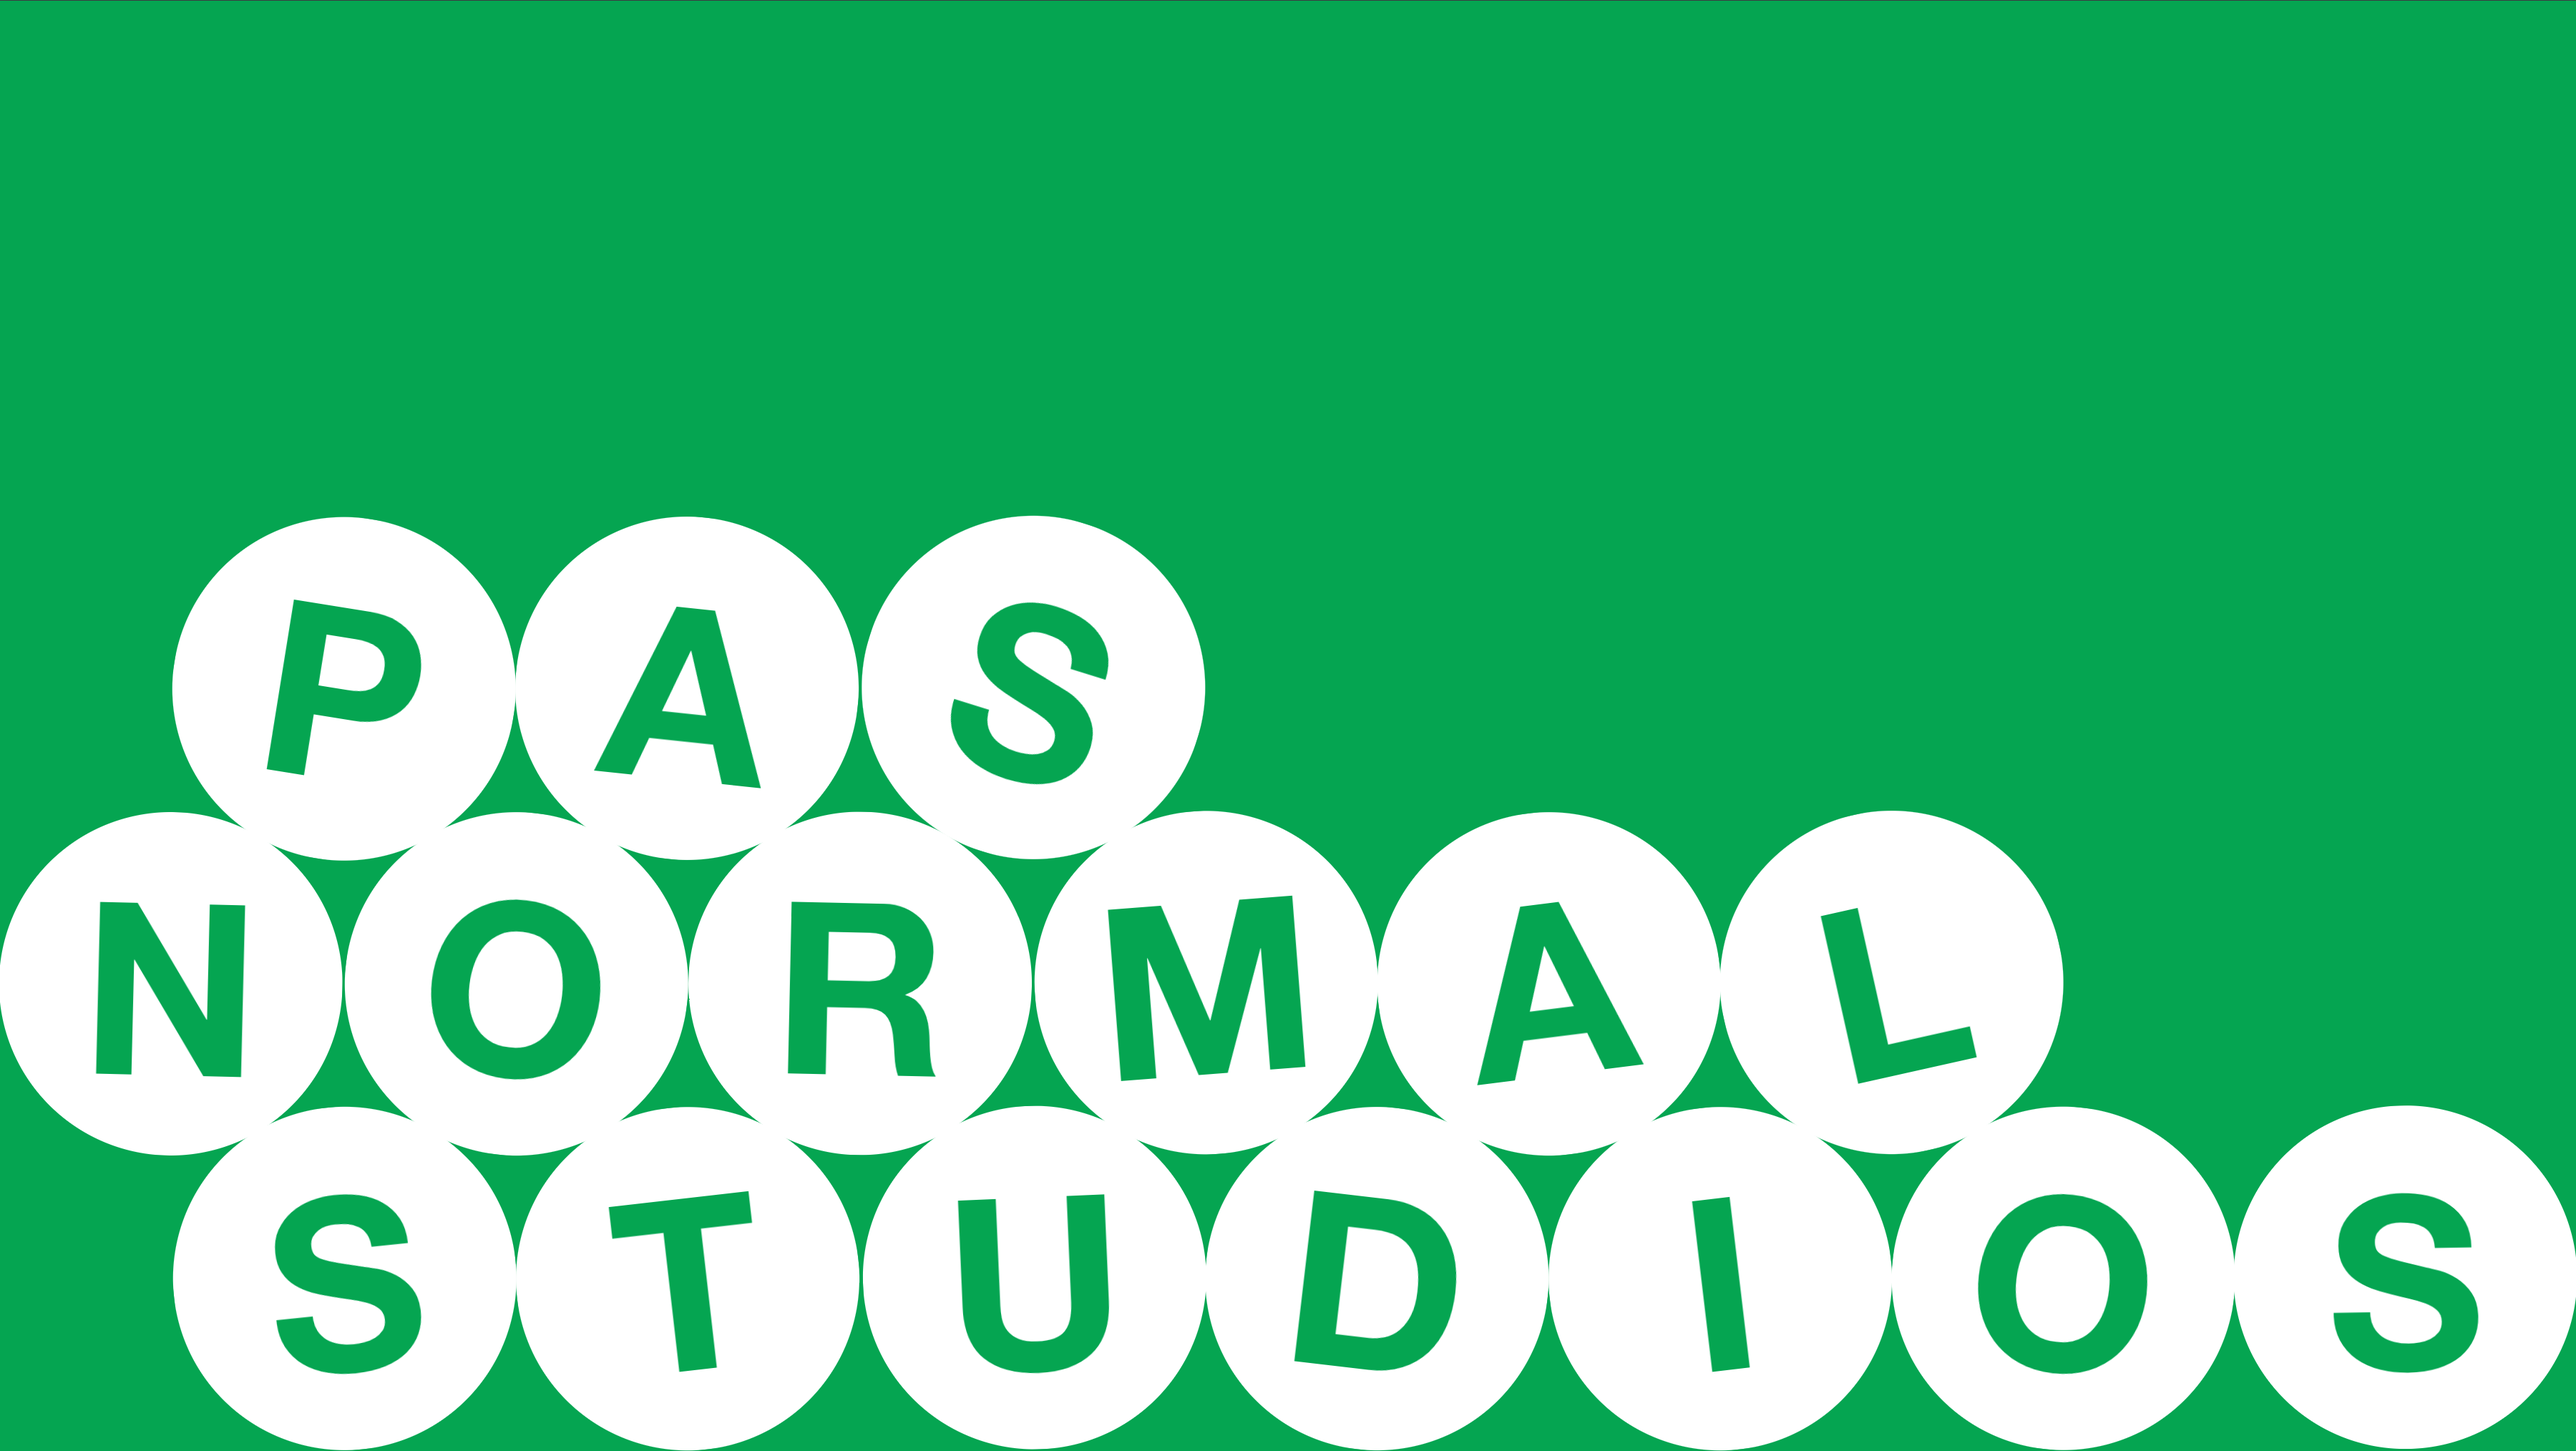
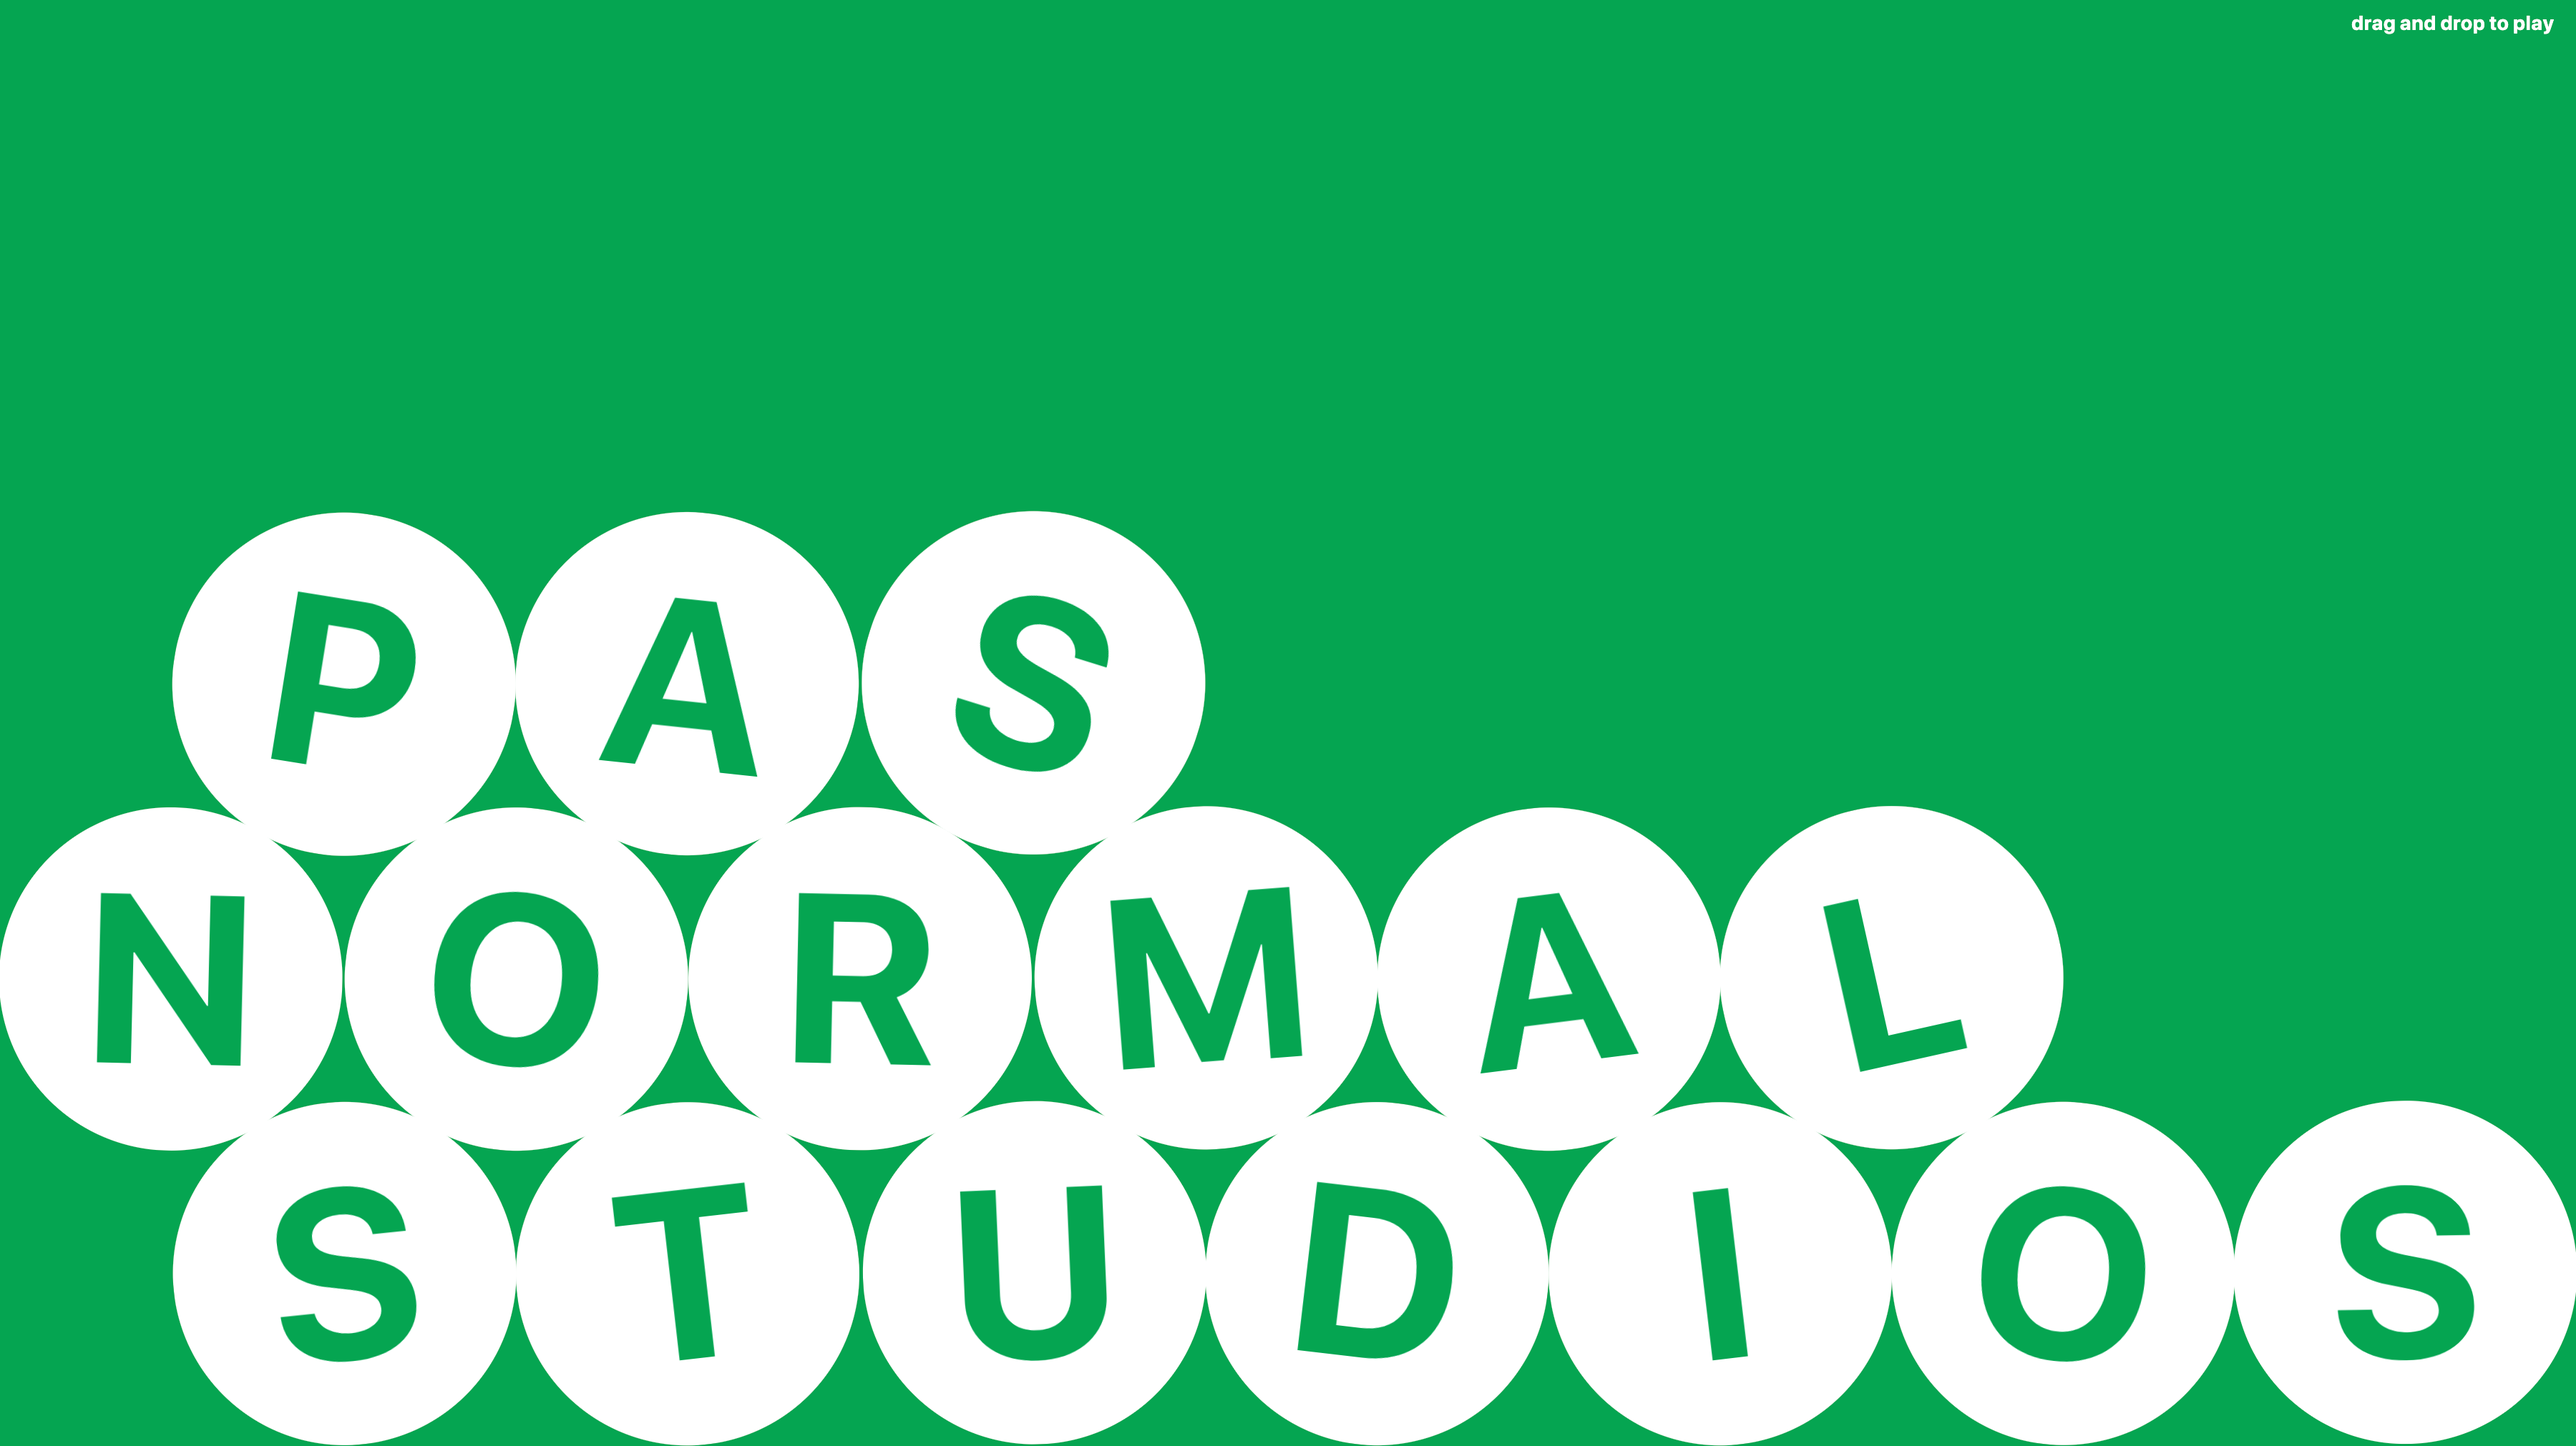
changed psn front cover to correct typeface

diff --git a/pasnormalstudios_FD/index.html b/pasnormalstudios_FD/index.html
@@ -4,7 +4,17 @@
 <meta charset="utf-8" />
 <meta name="viewport" content="width=device-width, initial-scale=1" />
 <title>PSN - Concept</title>
+
 <style>
+  @font-face {
+    font-family: "SF Pro Display";
+    src: local("SF Pro Display Bold"), local("SFProDisplay-Bold"),
+         url("SFProDisplay-Bold.woff2") format("woff2"),
+         url("SFProDisplay-Bold.woff") format("woff");
+    font-weight: 700;
+    font-style: normal;
+  }
+
   :root{
     --green:#00a651;
     --white:#ffffff;
@@ -17,7 +27,7 @@
   html,body{height:100%;overflow:hidden}
   body{
     background:var(--green);
-    font-family:"Helvetica Neue", Helvetica, Arial, sans-serif;
+    font-family:"SF Pro Display","Helvetica Neue", Helvetica, Arial, sans-serif;
     padding-top:8px; /* smaller top padding */
     cursor: grab; /* default grab cursor */
   }
@@ -35,12 +45,13 @@
     pointer-events:none;
   }
   .letter{
-    font-weight:900;
+    font-weight:700;
     font-size:calc(var(--circle)*0.7);
     line-height:1;
     color:var(--green);
     user-select:none;
     pointer-events:none;
+    font-family:"SF Pro Display","Helvetica Neue", Helvetica, Arial, sans-serif;
   }
   .instruction {
     position: fixed;
@@ -51,7 +62,7 @@
     color: var(--white);
     user-select: none;
     pointer-events: none;
-    font-family: Arial, sans-serif;
+    font-family:"SF Pro Display","Helvetica Neue", Helvetica, Arial, sans-serif;
   }
 </style>
 </head>
